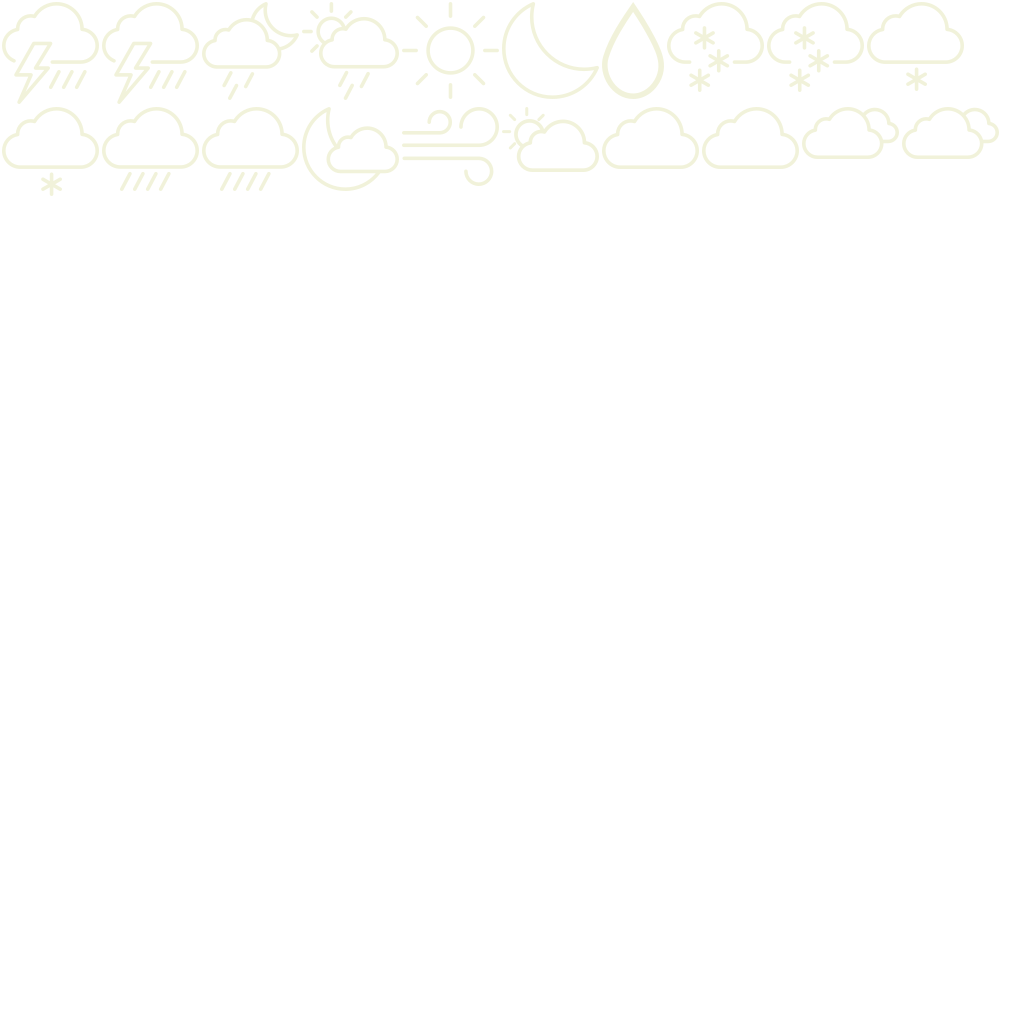
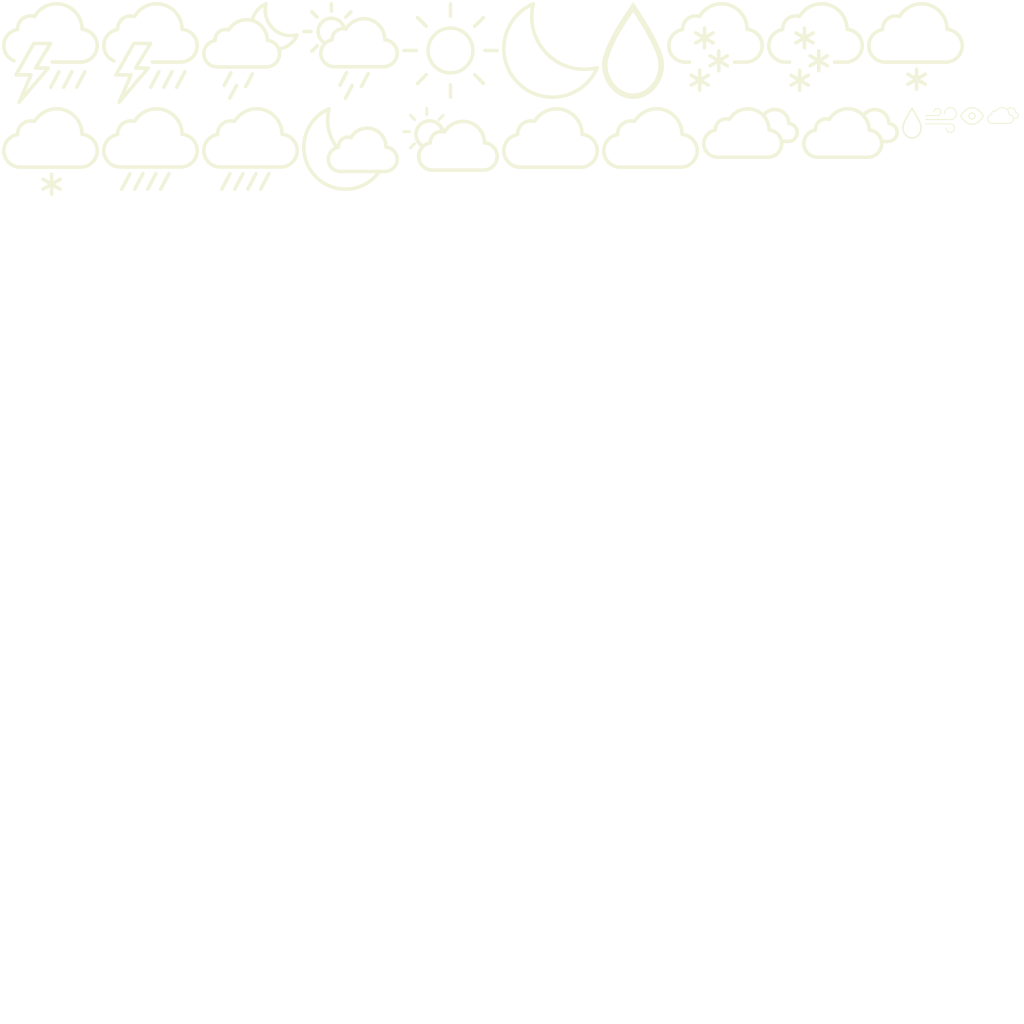
Weather predictions are ready

Changed region(s): [[0.375, 0.0938, 0.5938, 0.1875], [0.875, 0.0938, 0.9688, 0.1562], [0.6875, 0.0938, 0.7812, 0.1562]]

diff --git a/src/atlas.h b/src/atlas.h
@@ -10,7 +10,7 @@
 //////////////////////////////////////////////////////////////////////////////////
 
 #define ATLAS_ATLAS_IMAGE_PATH "atlas.png"
-#define ATLAS_ATLAS_SPRITE_COUNT 20
+#define ATLAS_ATLAS_SPRITE_COUNT 23
 
 // Atlas sprite properties
 typedef struct rtpAtlasSprite {
@@ -27,7 +27,7 @@ typedef struct rtpAtlasSprite {
 } rtpAtlasSprite;
 
 // Atlas sprites array
-static rtpAtlasSprite rtpDescAtlas[20] = {
+static rtpAtlasSprite rtpDescAtlas[23] = {
     {"day_clear", "", 0, 0, 401, 1, 97, 97, 1, false, 0, 0, 97, 97, 0, 0, 0, 0,
      0},
     {"day_cloudy", "", 0, 0, 601, 106, 97, 62, 1, false, 0, 0, 97, 62, 0, 0, 0,
@@ -38,17 +38,25 @@ static rtpAtlasSprite rtpDescAtlas[20] = {
      0, 0, 0},
     {"day_little_rain", "", 0, 0, 301, 1, 97, 98, 1, false, 0, 0, 97, 98, 0, 0,
      0, 0, 0},
-    {"day_overcast", "", 0, 0, 901, 106, 97, 52, 1, false, 0, 0, 97, 52, 0, 0,
+    {"day_overcast", "", 0, 0, 701, 106, 97, 52, 1, false, 0, 0, 97, 52, 0, 0,
      0, 0, 0},
-    {"day_partly_cloudy", "", 0, 0, 501, 106, 97, 65, 1, false, 0, 0, 97, 65, 0,
+    {"day_partly_cloudy", "", 0, 0, 401, 106, 97, 65, 1, false, 0, 0, 97, 65, 0,
      0, 0, 0, 0},
     {"day_snow", "", 0, 0, 866, 1, 97, 89, 1, false, 0, 0, 97, 89, 0, 0, 0, 0,
      0},
     {"day_storm", "", 0, 0, 1, 1, 97, 102, 1, false, 0, 0, 97, 102, 0, 0, 0, 0,
      0},
+    {"mini_cloud", "", 0, 0, 986, 106, 32, 17, 1, false, 0, 0, 32, 17, 0, 0, 0,
+     0, 0},
+    {"mini_visibility", "", 0, 0, 959, 106, 24, 18, 1, false, 0, 0, 24, 18, 0,
+     0, 0, 0, 0},
+    {"mini_water", "", 0, 0, 901, 106, 20, 32, 1, false, 0, 0, 20, 32, 0, 0, 0,
+     0, 0},
+    {"mini_windy", "", 0, 0, 924, 106, 32, 26, 1, false, 0, 0, 32, 26, 0, 0, 0,
+     0, 0},
     {"night_clear", "", 0, 0, 501, 1, 97, 97, 1, false, 0, 0, 97, 97, 0, 0, 0,
      0, 0},
-    {"night_cloudy", "", 0, 0, 701, 106, 97, 62, 1, false, 0, 0, 97, 62, 0, 0,
+    {"night_cloudy", "", 0, 0, 501, 106, 97, 62, 1, false, 0, 0, 97, 62, 0, 0,
      0, 0, 0},
     {"night_heavy_rain", "", 0, 0, 201, 106, 97, 84, 1, false, 0, 0, 97, 84, 0,
      0, 0, 0, 0},
@@ -65,6 +73,4 @@ static rtpAtlasSprite rtpDescAtlas[20] = {
     {"night_storm", "", 0, 0, 101, 1, 97, 102, 1, false, 0, 0, 97, 102, 0, 0, 0,
      0, 0},
     {"water", "", 0, 0, 601, 1, 62, 97, 1, false, 0, 0, 62, 97, 0, 0, 0, 0, 0},
-    {"windy", "", 0, 0, 401, 106, 97, 79, 1, false, 0, 0, 97, 79, 0, 0, 0, 0,
-     0},
 };

diff --git a/src/ui.cpp b/src/ui.cpp
@@ -2,6 +2,7 @@
 #include "settings.h"
 // temporarily
 #include <iostream>
+#include <raylib.h>
 //---
 
 namespace Weather {
@@ -118,6 +119,43 @@ void UI::WeatherHourlyCard(
     pc.offsetXForThreeDigit += posX * inc;
     pc.offsetXForOneDigit += posX * inc;
     pc.offsetXForTwoDigit += posX * inc;
+    step += inc;
+  }
+}
+
+void UI::WeatherPredictionsCard(
+    const std::list<std::map<std::string, std::string>> &data) {
+  float step = 1.0f;
+  float inc = 4.0f;
+  for (const auto item : data) {
+    int idx = 0;
+    std::string pic = item.at("pic");
+    for (int i = 0; i < ATLAS_ATLAS_SPRITE_COUNT; ++i) {
+      if (rtpDescAtlas[i].nameId == pic) {
+        idx = i;
+        break;
+      }
+    }
+    Rectangle src = {
+        (float)rtpDescAtlas[idx].positionX + (float)rtpDescAtlas[idx].padding,
+        (float)rtpDescAtlas[idx].positionY + (float)rtpDescAtlas[idx].padding,
+        (float)rtpDescAtlas[idx].sourceWidth,
+        (float)rtpDescAtlas[idx].sourceHeight};
+
+    Rectangle dst = {Window::WIDTH - 170.0f, 20.0f * step,
+                     (float)rtpDescAtlas[idx].sourceWidth,
+                     (float)rtpDescAtlas[idx].sourceHeight};
+
+    Vector2 orig = {(float)rtpDescAtlas[idx].originX,
+                    (float)rtpDescAtlas[idx].originY};
+
+    DrawTexturePro(atlas, src, dst, orig, 0.0f, WHITE);
+    DrawTextEx(fonts.at("regular"), item.at("title").c_str(),
+               (Vector2){Window::WIDTH - 130.0f, 20.0f * step}, fontSize.s, 2,
+               GetColor(palette.light));
+    DrawTextEx(fonts.at("bold"), item.at("result").c_str(),
+               (Vector2){Window::WIDTH - 130.0f, 20.0f * step + 25.0f},
+               fontSize.m, 2, GetColor(palette.light));
     step += inc;
   }
 }

diff --git a/src/main.cpp b/src/main.cpp
@@ -29,18 +29,23 @@ int main(void) {
   client.Request(Weather::REQUEST_PATH, Weather::CITIES, activeItem);
 
   std::map<std::string, std::string> dataHeroCard = {
-      {"pic", "day_snow"},
-      {"weather", "Snow"},
+      {"pic", "day_overcast"},
+      {"weather", "Overcast"},
       {"city", "Kharkiv City"},
-      {"temp", "-1"},
+      {"temp", "-10"},
   };
 
   std::list<std::map<std::string, std::string>> dataHourlyCard = {
-      {{"time", "3PM"}, {"temp", "-1"}},
-      {{"time", "4PM"}, {"temp", "-1"}},
-      {{"time", "5PM"}, {"temp", "-3"}},
-      {{"time", "6PM"}, {"temp", "-5"}},
-      {{"time", "7PM"}, {"temp", "-7"}},
+      {{"time", "3PM"}, {"temp", "1"}}, {{"time", "4PM"}, {"temp", "-3"}},
+      {{"time", "5PM"}, {"temp", "3"}}, {{"time", "6PM"}, {"temp", "-4"}},
+      {{"time", "7PM"}, {"temp", "-2"}},
+  };
+
+  std::list<std::map<std::string, std::string>> dataPredictions = {
+      {{"pic", "mini_cloud"}, {"title", "Cloud"}, {"result", "100%"}},
+      {{"pic", "mini_visibility"}, {"title", "Visibility"}, {"result", "100%"}},
+      {{"pic", "mini_water"}, {"title", "Humidity"}, {"result", "1%"}},
+      {{"pic", "mini_windy"}, {"title", "Wind speed"}, {"result", "110km/h"}},
   };
 
   while (!WindowShouldClose()) {
@@ -55,6 +60,7 @@ int main(void) {
     }
     ui.WeatherHeroCard(dataHeroCard);
     ui.WeatherHourlyCard(dataHourlyCard);
+    ui.WeatherPredictionsCard(dataPredictions);
     //---
     EndDrawing();
   }

diff --git a/src/ui.h b/src/ui.h
@@ -33,6 +33,8 @@ public:
   void WeatherHeroCard(const std::map<std::string, std::string> &data);
   void
   WeatherHourlyCard(const std::list<std::map<std::string, std::string>> &data);
+  void WeatherPredictionsCard(
+      const std::list<std::map<std::string, std::string>> &data);
 
 private:
   std::map<const char *, int> dropdownMenuState;
